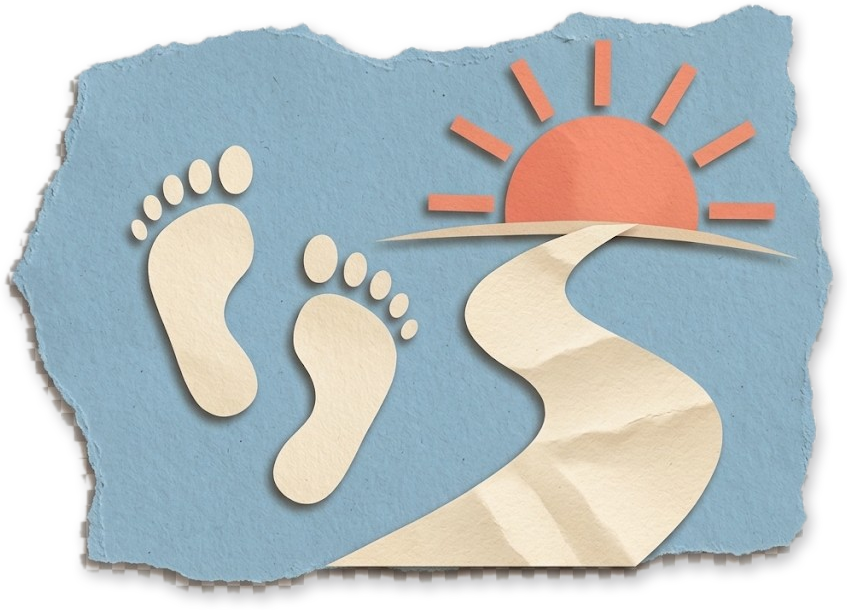
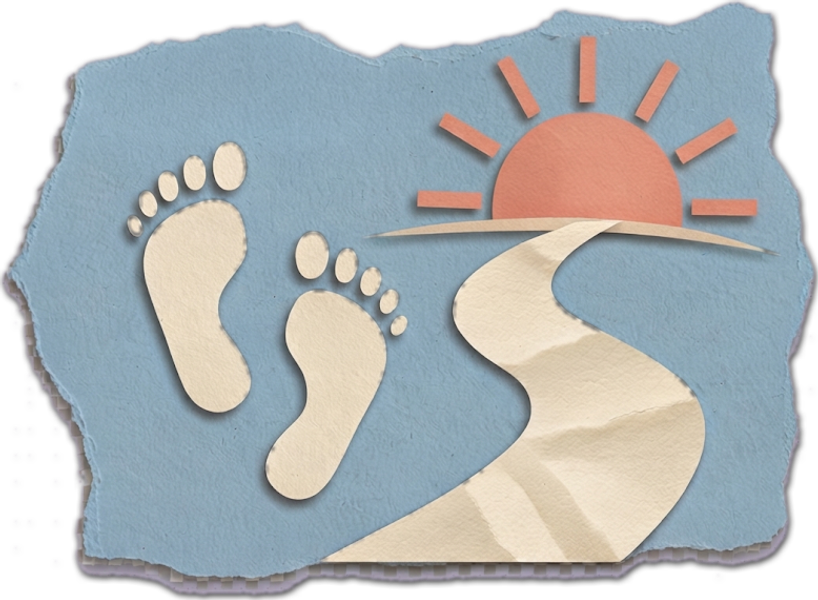
Add offer audience filters and refresh IT/curiosity card graphics.

diff --git a/src/app/page.tsx b/src/app/page.tsx
@@ -1,8 +1,10 @@
 import Link from "next/link";
 import { HeroCollage } from "@/components/hero-collage";
+import { OfferGrid, type OfferItem } from "@/components/offer-grid";
 import { ReviewsSlider } from "@/components/reviews-slider";
 import { SectionDivider } from "@/components/section-divider";
-const offerItems = [
+
+const offerItems: OfferItem[] = [
   {
     title: "Angielski szkolny",
     subtitle: "Bieżąca nauka i nadrabianie zaległości",
@@ -10,6 +12,7 @@ const offerItems = [
       "Pomagam uporządkować materiał, zrozumieć gramatykę i nadrobić zaległości. Pracujemy nad tym, co sprawia trudność i przygotowujemy się do sprawdzianów.",
     audience: "Dla uczniów, którzy potrzebują regularnego wsparcia w nauce.",
     graphic: "/offer-school.png?v=soft",
+    audiences: ["youth"],
   },
   {
     title: "Angielski od pierwszych kroków",
@@ -18,7 +21,9 @@ const offerItems = [
       "Zaczynamy od tego, co już wiesz, i spokojnie budujemy kolejne umiejętności. Poznajemy przydatne słownictwo, uczymy się tworzyć zdania i oswajamy z mówieniem.",
     audience:
       "Dla początkujących, osób wracających do nauki i dorosłych, którzy chcą zacząć od podstaw.",
-    graphic: "/offer-first-steps.png?v=soft",
+    graphic: "/offer-first-steps.png?v=flush",
+    largeGraphic: true,
+    audiences: ["adults"],
   },
   {
     title: "Egzaminy pod kontrolą",
@@ -28,6 +33,7 @@ const offerItems = [
     audience:
       "Dla ósmoklasistów i maturzystów przygotowujących się do poziomu podstawowego.",
     graphic: "/offer-exams.png?v=soft",
+    audiences: ["youth"],
   },
   {
     title: "Angielski w praktyce",
@@ -36,15 +42,17 @@ const offerItems = [
       "Chcesz poradzić sobie na lotnisku, zameldować się w hotelu, zamówić jedzenie lub swobodniej rozmawiać z innymi? Ćwiczymy konkretne sytuacje, przydatne zwroty i dialogi, które pomagają przełamać barierę językową.",
     audience:
       "Dla młodzieży i dorosłych, którzy chcą wykorzystywać angielski w codziennych sytuacjach.",
-    graphic: "/offer-practice.png?v=soft",
+    graphic: "/offer-practice.png?v=tone",
+    audiences: ["adults"],
   },
   {
-    title: "Angielski w IT & Rozmowy rekrutacyjne",
+    title: "Angielski w IT",
     description:
       "Czujesz, że Twój angielski zardzewiał, bo w projektach pracowałeś głównie z polskimi zespołami lub polskim klientem? Mówisz po angielsku, ale brakuje Ci swobody? Przygotuj się do rozmowy rekrutacyjnej albo na spotkania w międzynarodowym gronie.",
     audience:
       "Dla specjalistów IT potrzebujących językowego odświeżenia przed rozmową rekrutacyjną lub spotkaniami z zespołem.",
-    graphic: "/offer-curiosity-compass.png",
+    graphic: "/offer-it.png?v=raw",
+    audiences: ["adults"],
   },
   {
     title: "Wstępna weryfikacja językowa w IT",
@@ -52,7 +60,8 @@ const offerItems = [
       "Szukasz specjalisty do projektu, ale chcesz mieć pewność, że jego angielski faktycznie pozwoli mu na swobodną komunikację? Przeprowadzę szybką, wstępną weryfikację, oszczędzając czas Twojego zespołu.",
     audience:
       "Dla firm i rekruterów technicznych, którzy chcą sprawdzić realne umiejętności językowe kandydata przed rozmową techniczną.",
-    graphic: "/offer-exams.png?v=soft",
+    graphic: "/offer-verification.png?v=2",
+    audiences: ["business"],
   },
   {
     title: "Angielski z ciekawości",
@@ -61,13 +70,11 @@ const offerItems = [
       "Odkrywamy idiomy, nietypowe wyrażenia, język filmów i piosenek, ciekawostki kulturowe oraz zwyczaje krajów anglojęzycznych. Rozwijamy słownictwo, bawimy się językiem i poznajemy go z zupełnie innej strony.",
     audience:
       "Dla ciekawych świata uczniów oraz dorosłych, którzy chcą rozwijać angielski dla przyjemności.",
-    graphics: [
-      "/offer-curiosity-compass.png",
-      "/offer-curiosity-book.png",
-    ] as const,
+    graphic: "/offer-curiosity.png?v=book",
     wide: true,
+    audiences: ["youth", "adults"],
   },
-] as const;
+];
 
 const lessonApproachItems = [
   {
@@ -474,96 +481,7 @@ export default function Home() {
               </h2>
             </div>
 
-            <div className="grid grid-cols-1 gap-6 sm:grid-cols-2 lg:gap-7">
-              {offerItems.map((item) => {
-                const graphic =
-                  "graphic" in item ? item.graphic : undefined;
-                const graphics =
-                  "graphics" in item ? item.graphics : undefined;
-                const wide = "wide" in item && item.wide;
-
-                if (graphics) {
-                  const [leftGraphic, rightGraphic] = graphics;
-                  return (
-                    <article
-                      key={item.title}
-                      className="flex flex-col items-center gap-4 overflow-hidden rounded-2xl border border-[rgba(59,82,73,0.08)] bg-[#f4efe6] px-5 py-6 shadow-[0_6px_18px_rgba(43,58,50,0.08)] transition-[transform,box-shadow] duration-250 hover:-translate-y-1 hover:shadow-[0_10px_25px_rgba(43,58,50,0.12)] sm:col-span-2 sm:mx-auto sm:w-full sm:max-w-[820px] sm:flex-row sm:items-center sm:gap-3 sm:px-5 sm:py-5"
-                    >
-                      <div className="flex w-full items-start justify-center gap-6 sm:contents">
-                        {/* eslint-disable-next-line @next/next/no-img-element */}
-                        <img
-                          src={leftGraphic}
-                          alt=""
-                          aria-hidden
-                          className="w-[38%] max-w-[150px] shrink-0 object-contain sm:w-[150px] sm:self-center"
-                        />
-                        {/* eslint-disable-next-line @next/next/no-img-element */}
-                        <img
-                          src={`${rightGraphic}?v=2`}
-                          alt=""
-                          aria-hidden
-                          className="w-[38%] max-w-[150px] shrink-0 object-contain sm:order-3 sm:w-[150px] sm:self-center"
-                        />
-                      </div>
-                      <div className="min-w-0 flex-1 text-center sm:order-2">
-                        <h3 className="font-display text-[1.625rem] font-bold leading-snug text-[#263830] sm:text-[1.75rem]">
-                          {item.title}
-                        </h3>
-                        <p className="mt-2 text-base font-semibold leading-snug text-[#d9785a] sm:text-[1.0625rem]">
-                          {item.subtitle}
-                        </p>
-                        <p className="mt-2 text-sm leading-relaxed text-[#4a5c53] sm:text-[15px]">
-                          {item.description}
-                        </p>
-                        <p className="mt-3 text-sm leading-relaxed text-[#5a6b62]">
-                          {item.audience}
-                        </p>
-                      </div>
-                    </article>
-                  );
-                }
-
-                return (
-                  <article
-                    key={item.title}
-                    className={`flow-root rounded-2xl border border-[rgba(59,82,73,0.08)] bg-[#f4efe6] p-5 shadow-[0_6px_18px_rgba(43,58,50,0.08)] transition-[transform,box-shadow] duration-250 hover:-translate-y-1 hover:shadow-[0_10px_25px_rgba(43,58,50,0.12)] sm:p-6 ${
-                      wide
-                        ? "sm:col-span-2 sm:mx-auto sm:w-full sm:max-w-[780px]"
-                        : ""
-                    }`}
-                  >
-                    {graphic ? (
-                      // eslint-disable-next-line @next/next/no-img-element
-                      <img
-                        src={graphic}
-                        alt=""
-                        aria-hidden
-                        className="float-left mb-1 mr-4 w-[min(48%,200px)] object-contain max-sm:float-none max-sm:mx-auto max-sm:mb-4 max-sm:block max-sm:w-[72%]"
-                        style={{
-                          shapeOutside: `url("${graphic}")`,
-                          shapeMargin: "0.85rem",
-                          shapeImageThreshold: 0.2,
-                        }}
-                      />
-                    ) : null}
-                    <h3 className="font-display text-[1.625rem] font-bold leading-snug text-[#263830] max-sm:text-center sm:text-[1.75rem]">
-                      {item.title}
-                    </h3>
-                    {"subtitle" in item && item.subtitle ? (
-                      <p className="mt-2 text-base font-semibold leading-snug text-[#d9785a] max-sm:text-center sm:text-[1.0625rem]">
-                        {item.subtitle}
-                      </p>
-                    ) : null}
-                    <p className="mt-2 text-sm leading-relaxed text-[#4a5c53] max-sm:text-center sm:text-[15px]">
-                      {item.description}
-                    </p>
-                    <p className="mt-3 clear-both text-sm leading-relaxed text-[#5a6b62] max-sm:text-center">
-                      {item.audience}
-                    </p>
-                  </article>
-                );
-              })}
-            </div>
+            <OfferGrid items={offerItems} />
           </div>
           <svg
             viewBox="0 0 1440 48"

diff --git a/src/components/offer-grid.tsx b/src/components/offer-grid.tsx
@@ -1,0 +1,187 @@
+"use client";
+
+import { useState } from "react";
+
+export type OfferAudience = "youth" | "adults" | "business";
+
+export type OfferItem = {
+  title: string;
+  subtitle?: string;
+  description: string;
+  audience: string;
+  graphic?: string;
+  graphics?: readonly [string, string];
+  wide?: boolean;
+  largeGraphic?: boolean;
+  audiences: readonly OfferAudience[];
+};
+
+const filters = [
+  { id: "all" as const, label: "Wszystkie" },
+  { id: "youth" as const, label: "Dla dzieci i młodzieży" },
+  { id: "adults" as const, label: "Dla dorosłych" },
+  { id: "business" as const, label: "Dla firm" },
+];
+
+type OfferFilter = (typeof filters)[number]["id"];
+
+type OfferGridProps = {
+  items: readonly OfferItem[];
+};
+
+export function OfferGrid({ items }: OfferGridProps) {
+  const [active, setActive] = useState<OfferFilter>("all");
+
+  const visible =
+    active === "all"
+      ? items
+      : items.filter((item) => item.audiences.includes(active));
+
+  return (
+    <div>
+      <div
+        className="mb-8 flex flex-wrap justify-center gap-2.5 sm:mb-10 sm:gap-3"
+        role="group"
+        aria-label="Filtr oferty"
+      >
+        {filters.map((filter) => {
+          const isActive = active === filter.id;
+          return (
+            <button
+              key={filter.id}
+              type="button"
+              onClick={() => setActive(filter.id)}
+              aria-pressed={isActive}
+              className={`rounded-[20px] px-4 py-2 text-[13px] font-semibold transition-[transform,box-shadow,background-color,color] duration-200 sm:px-5 sm:text-sm ${
+                isActive
+                  ? "bg-[#2b3a32] text-[#fcf9f2] shadow-[0_4px_12px_rgba(43,58,50,0.18)]"
+                  : "bg-[#f4efe6] text-[#3b5249] shadow-[0_2px_5px_rgba(0,0,0,0.04)] hover:-translate-y-0.5 hover:shadow-[0_4px_10px_rgba(43,58,50,0.1)]"
+              }`}
+            >
+              {filter.label}
+            </button>
+          );
+        })}
+      </div>
+
+      <div className="grid grid-cols-1 gap-6 sm:grid-cols-2 lg:gap-7">
+        {visible.map((item) => {
+          const graphic = item.graphic;
+          const graphics = item.graphics;
+          // Wide layout only in "Wszystkie"; in audience filters keep a regular 2-col grid
+          const wide =
+            visible.length === 1 ||
+            (active === "all" && Boolean(item.wide));
+
+          if (graphics) {
+            const [leftGraphic, rightGraphic] = graphics;
+            const spanWide = active === "all" || visible.length === 1;
+            return (
+              <article
+                key={item.title}
+                className={`flex flex-col items-center gap-4 overflow-hidden rounded-2xl border border-[rgba(59,82,73,0.08)] bg-[#f4efe6] px-5 py-6 shadow-[0_6px_18px_rgba(43,58,50,0.08)] transition-[transform,box-shadow] duration-250 hover:-translate-y-1 hover:shadow-[0_10px_25px_rgba(43,58,50,0.12)] ${
+                  spanWide
+                    ? "sm:col-span-2 sm:mx-auto sm:w-full sm:max-w-[820px] sm:flex-row sm:items-center sm:gap-3 sm:px-5 sm:py-5"
+                    : "sm:p-6"
+                }`}
+              >
+                <div
+                  className={`flex w-full items-start justify-center gap-6 ${
+                    spanWide ? "sm:contents" : "mb-2"
+                  }`}
+                >
+                  {/* eslint-disable-next-line @next/next/no-img-element */}
+                  <img
+                    src={leftGraphic}
+                    alt=""
+                    aria-hidden
+                    className={`shrink-0 object-contain ${
+                      spanWide
+                        ? "w-[38%] max-w-[150px] sm:w-[150px] sm:self-center"
+                        : "w-[42%] max-w-[120px]"
+                    }`}
+                  />
+                  {/* eslint-disable-next-line @next/next/no-img-element */}
+                  <img
+                    src={`${rightGraphic}?v=2`}
+                    alt=""
+                    aria-hidden
+                    className={`shrink-0 object-contain ${
+                      spanWide
+                        ? "w-[38%] max-w-[150px] sm:order-3 sm:w-[150px] sm:self-center"
+                        : "w-[42%] max-w-[120px]"
+                    }`}
+                  />
+                </div>
+                <div
+                  className={`min-w-0 flex-1 ${
+                    spanWide ? "text-center sm:order-2" : "text-center"
+                  }`}
+                >
+                  <h3 className="font-display text-[1.625rem] font-bold leading-snug text-[#263830] sm:text-[1.75rem]">
+                    {item.title}
+                  </h3>
+                  {item.subtitle ? (
+                    <p className="mt-2 text-base font-semibold leading-snug text-[#d9785a] sm:text-[1.0625rem]">
+                      {item.subtitle}
+                    </p>
+                  ) : null}
+                  <p className="mt-2 text-sm leading-relaxed text-[#4a5c53] sm:text-[15px]">
+                    {item.description}
+                  </p>
+                  <p className="mt-3 text-sm leading-relaxed text-[#5a6b62]">
+                    {item.audience}
+                  </p>
+                </div>
+              </article>
+            );
+          }
+
+          return (
+            <article
+              key={item.title}
+              className={`flow-root rounded-2xl border border-[rgba(59,82,73,0.08)] bg-[#f4efe6] p-5 shadow-[0_6px_18px_rgba(43,58,50,0.08)] transition-[transform,box-shadow] duration-250 hover:-translate-y-1 hover:shadow-[0_10px_25px_rgba(43,58,50,0.12)] sm:p-6 ${
+                wide
+                  ? "sm:col-span-2 sm:mx-auto sm:w-full sm:max-w-[780px]"
+                  : ""
+              }`}
+            >
+              {graphic ? (
+                // eslint-disable-next-line @next/next/no-img-element
+                <img
+                  src={graphic}
+                  alt=""
+                  aria-hidden
+                  className={`float-left mb-1 mr-4 object-contain max-sm:float-none max-sm:mx-auto max-sm:mb-4 max-sm:block ${
+                    item.largeGraphic
+                      ? "w-[min(50%,230px)] max-sm:w-[78%]"
+                      : "w-[min(48%,200px)] max-sm:w-[72%]"
+                  }`}
+                  style={{
+                    shapeOutside: `url("${graphic}")`,
+                    shapeMargin: "0.85rem",
+                    shapeImageThreshold: 0.2,
+                  }}
+                />
+              ) : null}
+              <h3 className="font-display text-[1.625rem] font-bold leading-snug text-[#263830] max-sm:text-center sm:text-[1.75rem]">
+                {item.title}
+              </h3>
+              {item.subtitle ? (
+                <p className="mt-2 text-base font-semibold leading-snug text-[#d9785a] max-sm:text-center sm:text-[1.0625rem]">
+                  {item.subtitle}
+                </p>
+              ) : null}
+              <p className="mt-2 text-sm leading-relaxed text-[#4a5c53] max-sm:text-center sm:text-[15px]">
+                {item.description}
+              </p>
+              <p className="mt-3 clear-both text-sm leading-relaxed text-[#5a6b62] max-sm:text-center">
+                {item.audience}
+              </p>
+            </article>
+          );
+        })}
+      </div>
+    </div>
+  );
+}
